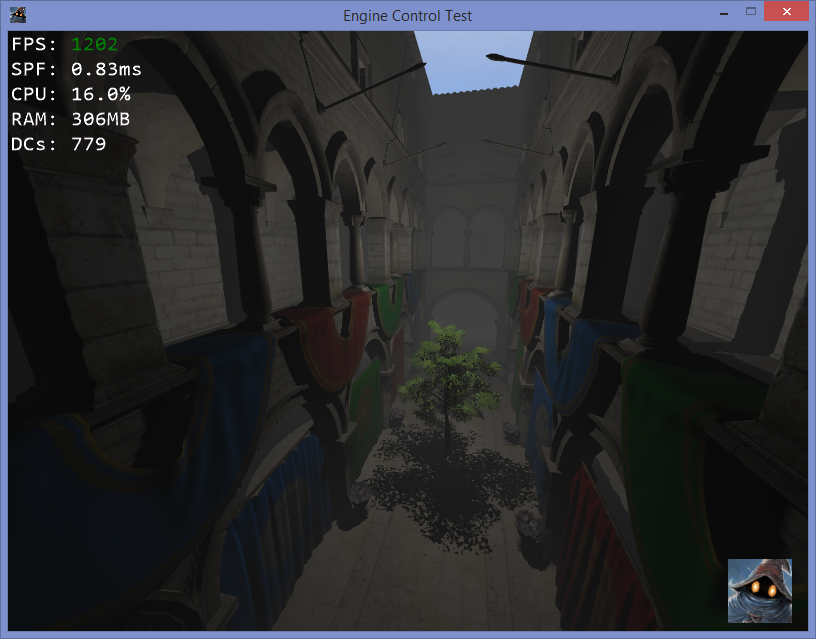
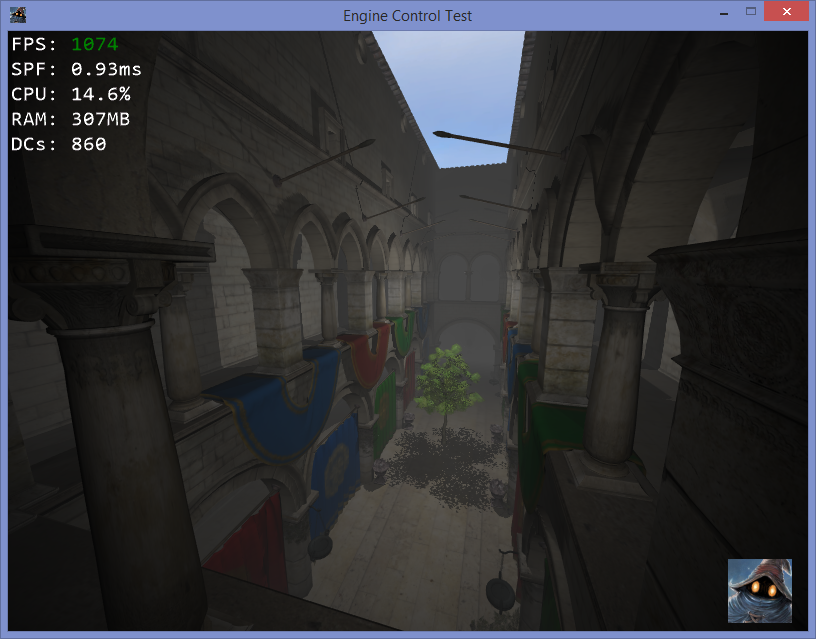
Refactor

diff --git a/MAGE/FPS/src/samples/sponza/sponza_scene.cpp b/MAGE/FPS/src/samples/sponza/sponza_scene.cpp
@@ -89,23 +89,10 @@ namespace mage {
 		//spot_light->GetLight()->SetAngularCutoff(1.0f, sqrt(2.0f) / 2.0f);
 		//spot_light->GetLight()->EnableShadows();
 
-		//auto light0 = Create< SpotLightNode >("light");
-		//light0->GetTransform()->SetTranslationY(2.0f);
-		//light0->GetLight()->SetDistanceFalloff(0.0f, 4.0f);
-		//light0->GetLight()->SetUmbraAngle(XM_PI / 6.0f);
-		//light0->GetLight()->EnableShadows();
-
-		//auto light1 = Create< SpotLightNode >("light");
-		//light1->GetTransform()->SetTranslationY(2.0f);
-		//light1->GetTransform()->SetRotationY(XM_PI);
-		//light1->GetLight()->SetDistanceFalloff(0.0f, 4.0f);
-		//light1->GetLight()->SetUmbraAngle(XM_PI / 6.0f);
-		//light1->GetLight()->EnableShadows();
-
-		//auto spot_light = Create< SpotLightNode >("light");
-		//spot_light->GetLight()->SetDistanceFalloff(0.0f, 5.0f);
-		//spot_light->GetLight()->SetAngularCutoff(1.0f, 0.5f);
-		//camera->AddChildNode(spot_light);
+		auto spot_light = Create< SpotLightNode >("light");
+		spot_light->GetLight()->SetDistanceFalloff(0.0f, 5.0f);
+		spot_light->GetLight()->SetAngularCutoff(1.0f, 0.5f);
+		camera->AddChildNode(spot_light);
 
 		//---------------------------------------------------------------------
 		// Image
